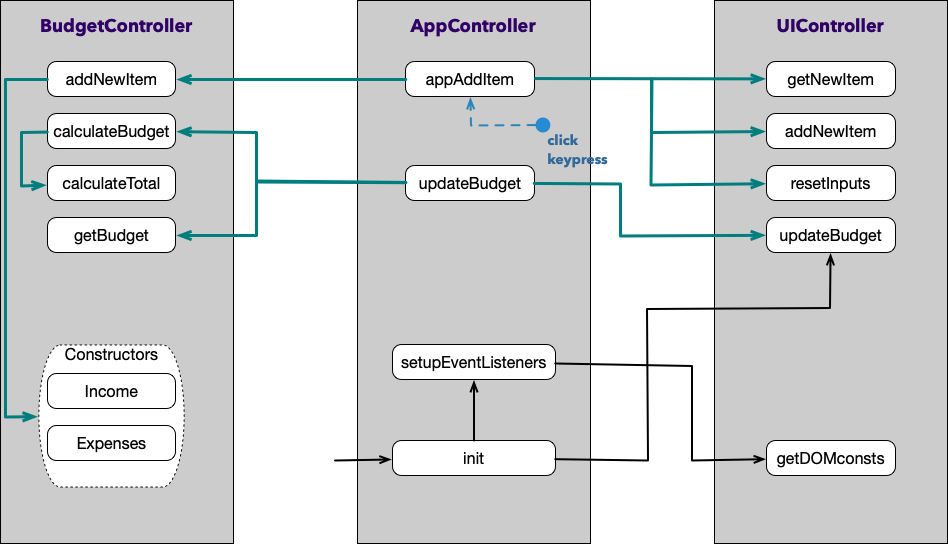
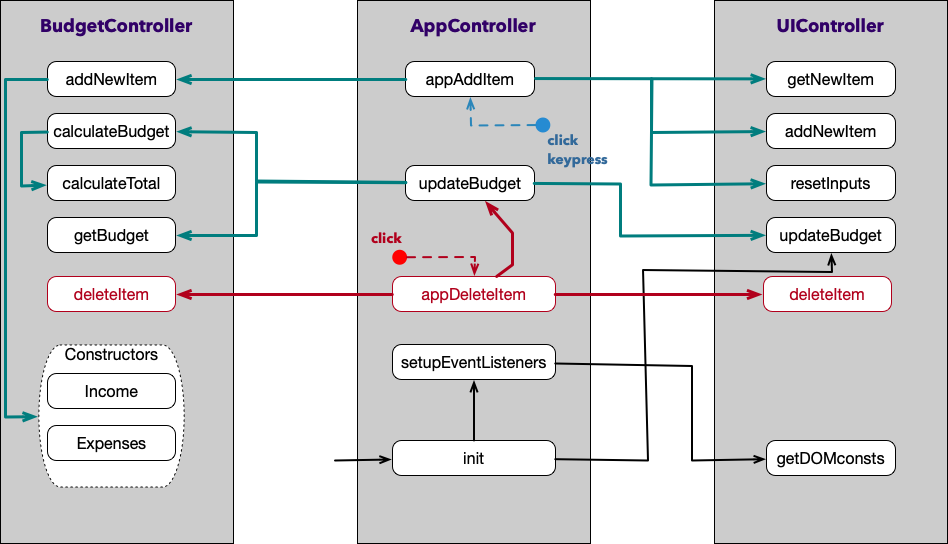
adding ability to delete items from the ledger

Changed region(s): [[0.0306, 0.375, 0.9483, 0.7812]]

diff --git a/app/app.js b/app/app.js
@@ -63,6 +63,23 @@ var budgetController = (function() {
             return newItem;
         },
 
+        deleteItem: function (type, id) {
+            var ids, index
+
+            // Get an array of all the ids and their positions
+            ids = data.allItems[type].map(function(curr) {
+                return curr.id;
+            });
+
+            // get the position of the id to be deleted
+            index = ids.indexOf(id);
+
+            // go to the index specified and remove one item
+            if (index !== -1) {
+                data.allItems[type].splice(index, 1);
+            }
+        },
+
         calculateBudget: function () {
             // calculate the total incomes and expenses
             calculateTotals('inc');
@@ -112,7 +129,8 @@ var uiController = (function() {
         budgetExpensesPercentage: 'budgetExpensesPercentage',
         budgetExpensesValue: 'budgetExpensesValue',
         budgetIncomeValue: 'budgetIncomeValue',
-        budgetValue: 'budgetValue'
+        budgetValue: 'budgetValue',
+        containerClass: '.container'
     }
 
     return {
@@ -139,21 +157,26 @@ var uiController = (function() {
                 // set the side of the ledger we want to inject the new item into
                 element = DOMconsts.incomeList;
 
-                html = '<div class="item clearfix" id="income-%id%"><div class="item__description">%description%</div><div class="right clearfix"><div class="item__value">+ %value%</div><div class="item__delete"><button class="item__delete--btn"><iclass="ion-ios-close-outline"></i></button></div></div></div>';
+                html = '<div class="item clearfix" id="inc-%id%"><div class="item__description">%description%</div><div class="right clearfix"><div class="item__value">+ %value%</div><div class="item__delete"><button class="item__delete--btn"><i class="ion-ios-close-outline"></i></button></div></div></div>';
             } else if (type === 'exp') {
                 // set the side of the ledger we want to inject the new item into
                 element = DOMconsts.expensesList;
 
-                html = '<div class="item clearfix" id="expense-%id%"><div class="item__description">%description%</div><div class="right clearfix"><div class="item__value">- %value%</div><div class="item__percentage">21%</div><div class="item__delete"><button class="item__delete--btn"><i class="ion-ios-close-outline"></i></button></div></div></div>';
+                html = '<div class="item clearfix" id="exp-%id%"><div class="item__description">%description%</div><div class="right clearfix"><div class="item__value">- %value%</div><div class="item__percentage">21%</div><div class="item__delete"><button class="item__delete--btn"><i class="ion-ios-close-outline"></i></button></div></div></div>';
             }
 
             // Inject the new item into the static HTML
-            html = html.replace('%id', newItem.id);
+            html = html.replace('%id%', newItem.id);
             html = html.replace('%description%', newItem.description);
             html = html.replace('%value%', newItem.value);
 
             // Inject the new HTML into the DOM
             document.getElementById(element).insertAdjacentHTML('beforeend', html);
+        },
+
+        deleteItem: function (elementId) {
+            var el = document.getElementById(elementId);
+            el.parentNode.removeChild(el);
         },
 
         // clear the input fields
@@ -199,6 +222,8 @@ var appController = (function(budgetCtrl, uiCtrl) {
                 appAddItem();
             }
         });
+
+        document.querySelector(DOM.containerClass).addEventListener('click', appDeleteItem);
     }
     
     var updateBudget = function () {
@@ -232,6 +257,30 @@ var appController = (function(budgetCtrl, uiCtrl) {
                 // Calculate, update & display the budget
                 updateBudget();
             }
+    };
+
+    var appDeleteItem = function (event) {
+        var itemId, splitId, type, id;
+
+        itemId = event.target.parentNode.parentNode.parentNode.parentNode.id;
+
+        // check that we have a valid item id before doing any logic
+        if (itemId) {
+            // get the type and id
+            splitId = itemId.split('-');
+            type = splitId[0];
+            id = parseInt(splitId[1]);
+
+            // delete the item from the data structure in the budget controller
+            budgetController.deleteItem(type, id);
+
+            // delete the item from the UI
+            uiController.deleteItem(itemId);
+
+            // Calculate, update & display the budget
+            updateBudget();
+        }
+
     };
 
     return {
